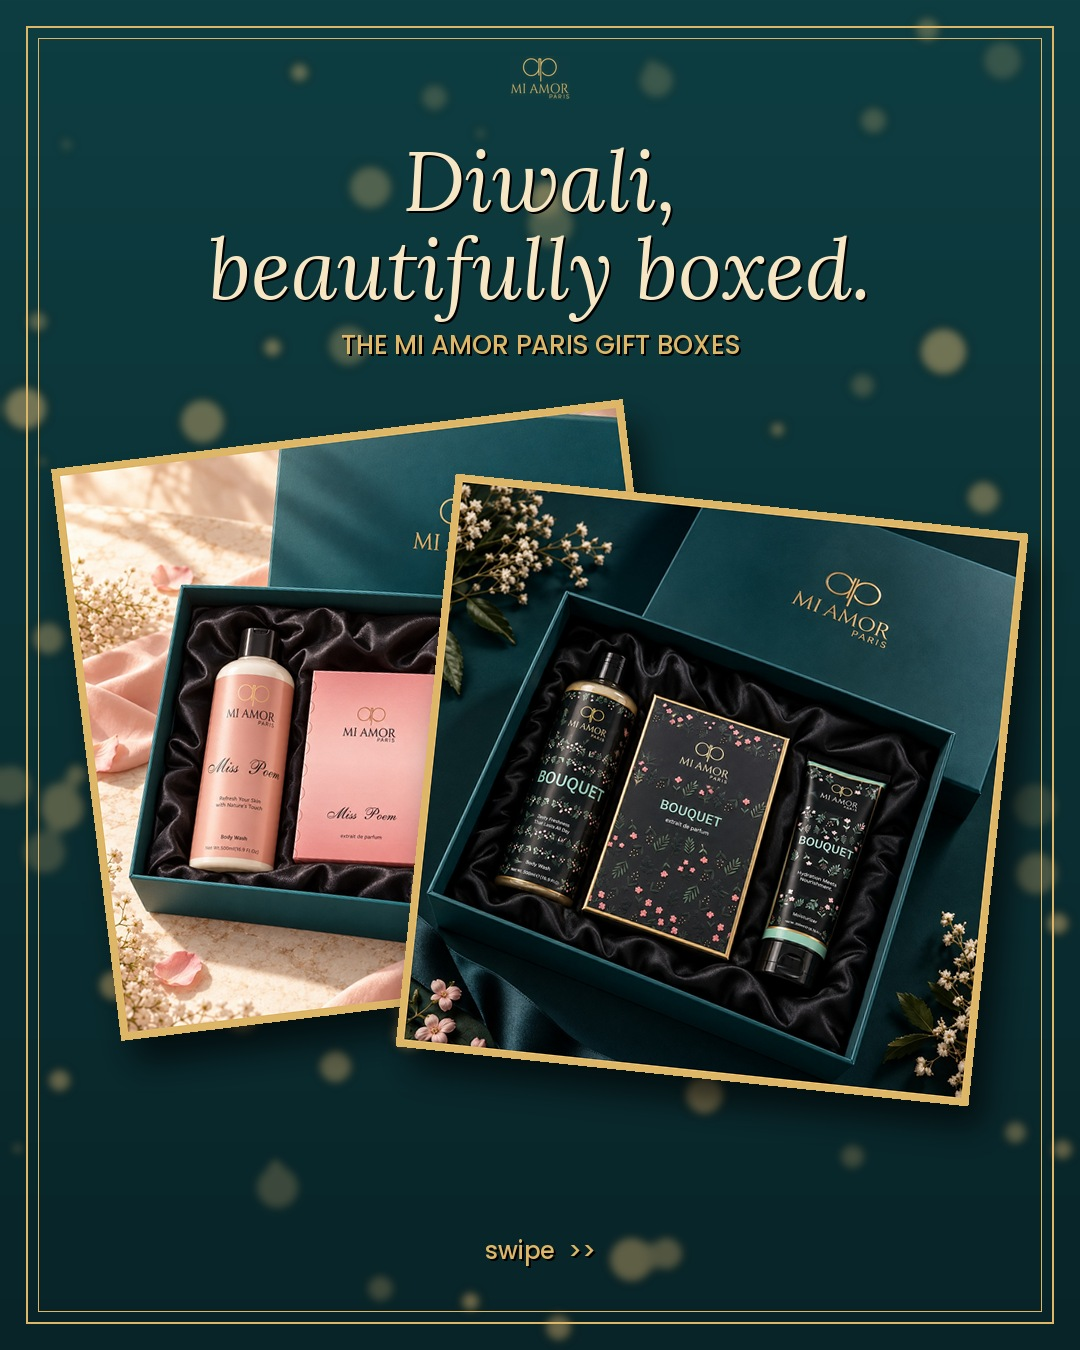
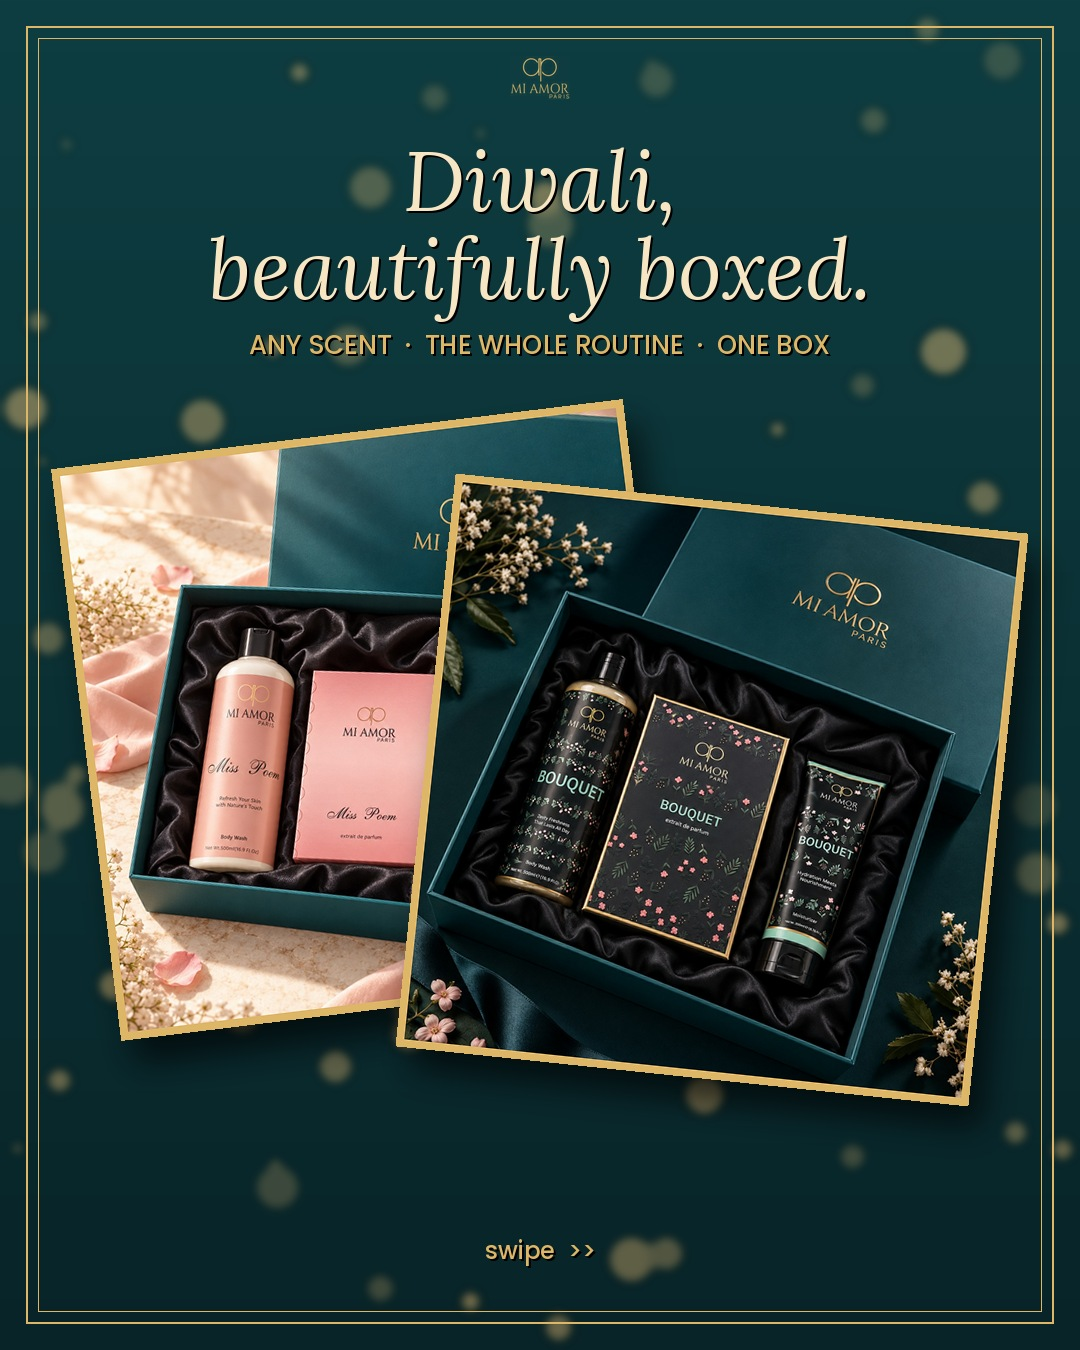
Gift boxes: any of the 12 scents (Tannay), Miss Poem/Bouquet as examples
Claude-Session: https://claude.ai/code/session_01QfcZgk1TCxQfFsu6yjKqLd

Changed region(s): [[0.2139, 0.2489, 0.7639, 0.28]]

diff --git a/posts/2026-11-05-gift-boxes/build.py b/posts/2026-11-05-gift-boxes/build.py
@@ -1,4 +1,4 @@
-"""Diwali gift-box push: Miss Poem and Bouquet gift boxes (body wash + extrait de parfum + moisturizer), Tannay's own
+"""Diwali gift-box push: gift box in ANY of the 12 scents (Tannay), shown in Miss Poem and Bouquet (body wash + extrait de parfum + moisturizer), Tannay's own
 styled photos (3 Nov). No prices: last slide 'DM for prices & Diwali deals'. Notes from the Shopify listings / weekly plan."""
 import random, numpy as np
 from PIL import Image, ImageDraw, ImageFont, ImageFilter
@@ -50,27 +50,27 @@ out = []
 im = teal_bg(1); card(im, MP, 372, 720, 560, 7); card(im, BQ, 712, 790, 560, -6)
 frame(im); d = ImageDraw.Draw(im); logo(im, 60, 56)
 c(d, 180, "Diwali,", lora(84, True), CHAMP); c(d, 268, "beautifully boxed.", lora(84, True), CHAMP)
-c(d, 345, "THE MI AMOR PARIS GIFT BOXES", pop(26, "Medium"), GOLD)
+c(d, 345, "ANY SCENT  ·  THE WHOLE ROUTINE  ·  ONE BOX", pop(26, "Medium"), GOLD)
 c(d, 1250, "swipe  >>", pop(24), GOLD); out.append(im)
 # 2 Miss Poem (soft ivory light behind the text so it reads over the lid)
 im = extend(MP); g = Image.new("RGBA", (W, 330)); gd = ImageDraw.Draw(g)
 for y in range(330): gd.line((0, y, W, y), fill=(252, 238, 226, int(215 * min(1, (330 - y) / 120))))
 im.alpha_composite(g); bokeh(im, (60, 30, 1020, 240), 12, 2, (255, 215, 170)); frame(im, (176, 120, 70)); d = ImageDraw.Draw(im)
-c(d, 70, "MISS POEM GIFT BOX", pop(28, "Bold"), (150, 92, 60), None); c(d, 135, "Narcissus, mimosa, vanilla & amber", lora(46, True), (70, 38, 30), None)
+c(d, 70, "SHOWN IN MISS POEM", pop(28, "Bold"), (150, 92, 60), None); c(d, 135, "Narcissus, mimosa, vanilla & amber", lora(46, True), (70, 38, 30), None)
 c(d, 196, "Body wash  ·  Extrait de parfum  ·  Moisturizer", pop(24), (110, 72, 58), None)
 c(d, 238, "Soft, sweet and romantic.", pop(22), (130, 90, 74), None); out.append(im)
 # 3 Bouquet
 im = extend(BQ); bokeh(im, (60, 30, 1020, 240), 14, 3, (190, 240, 220)); frame(im); d = ImageDraw.Draw(im)
-c(d, 70, "BOUQUET GIFT BOX", pop(28, "Bold"), GOLD); c(d, 135, "Apple blossom, peony, pear & peach", lora(46, True), CHAMP)
+c(d, 70, "SHOWN IN BOUQUET", pop(28, "Bold"), GOLD); c(d, 135, "Apple blossom, peony, pear & peach", lora(46, True), CHAMP)
 c(d, 196, "Body wash  ·  Extrait de parfum  ·  Moisturizer", pop(24), (200, 220, 210)); c(d, 238, "Fresh, fruity and floral.", pop(22), (190, 210, 200)); out.append(im)
 # 4 CTA over the Bouquet set, softly blurred and darkened
 bg = BQ.resize((1350, 1350), Image.LANCZOS).crop((135, 0, 1215, 1350)).filter(ImageFilter.GaussianBlur(14))
 im = Image.blend(bg, Image.new("RGB", bg.size, DTEAL), 0.55).convert("RGBA"); bokeh(im, (0, 0, W, H), 50, 5)
 frame(im); d = ImageDraw.Draw(im); logo(im, 70, 300)
-c(d, 470, "One scent. Three steps.", lora(64, True), CHAMP); c(d, 550, "Ready to gift.", lora(64, True), CHAMP)
-d.line((440, 640, 640, 640), fill=GOLD, width=2)
+c(d, 440, "Pick any of our 12 scents.", lora(60, True), CHAMP); c(d, 515, "Get the whole routine,", lora(60, True), CHAMP); c(d, 590, "ready to gift.", lora(60, True), CHAMP)
+d.line((440, 660, 640, 660), fill=GOLD, width=2)
 c(d, 740, "DM for prices", pop(56, "Bold"), CHAMP); c(d, 815, "& Diwali deals", pop(56, "Bold"), CHAMP)
-c(d, 905, "MISS POEM  ·  BOUQUET", pop(26, "Medium"), GOLD)
+c(d, 905, "BODY WASH  ·  EXTRAIT DE PARFUM  ·  MOISTURIZER", pop(24, "Medium"), GOLD)
 c(d, 1000, "or visit us at O-17, Lajpat Nagar-II, New Delhi", pop(26), (205, 225, 215)); out.append(im)
 for i, s in enumerate(out, 1): s.convert("RGB").save(f"slide_{i:02d}.jpg", quality=93)
 sheet = Image.new("RGB", (4 * 432 + 50, 560), (10, 20, 22))
